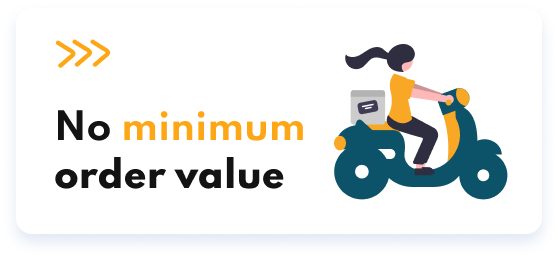
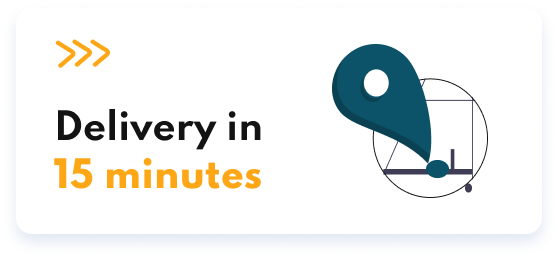
Excluding arm64 architecture from Pods as Google libs don't provide c… (#221)
* Excluding arm64 architecture from Pods as Google libs don't provide compatible packages for M1 Macs

* HY-615 | Changed first slide in carousel

* Changed flipper to devtools for redux store

* HY-615 | Fixed home carousel items

* HY-615 FE Update promo code banner and link to in-app browser page
- set correct link

Changed region(s): [[0.5789, 0.155, 0.914, 0.7752], [0.0914, 0.5891, 0.5179, 0.7442], [0.0914, 0.4031, 0.5484, 0.5891]]

diff --git a/src/components/HomeCarousel/index.tsx b/src/components/HomeCarousel/index.tsx
@@ -1,9 +1,10 @@
 import React, { useState } from 'react';
-import { View, Image } from 'react-native';
+import { View, Image, TouchableOpacity } from 'react-native';
 import Carousel, { Pagination } from 'react-native-snap-carousel';
 
 import { CarouselDotElement } from 'components';
 import useStyles from './styles';
+import { openLink } from 'services/inAppBrowser';
 
 
 interface IHomeCarousel {
@@ -16,6 +17,7 @@ const HomeCarousel: React.FC<IHomeCarousel> = ({ style = {} }) => {
   const carouselItems = [
     {
       img: require('../../../assets/images/slide_1.png'),
+      link: 'https://www.getblitz.io/promos/',
     },
     {
       img: require('../../../assets/images/slide_2.png'),
@@ -28,13 +30,24 @@ const HomeCarousel: React.FC<IHomeCarousel> = ({ style = {} }) => {
   const renderItem = ({ item }) => (
     <View style={styles.carouselItem}>
       <View style={styles.imageBannerWrapper}>
-        <Image
-          source={item.img}
-          style={styles.imageBanner}
-        />
+        {
+                      item.link ? (
+                        <TouchableOpacity onPress={() => openLink(item.link)} activeOpacity={0.7}>
+                          <Image
+                            source={item.img}
+                            style={styles.imageBanner}
+                          />
+                        </TouchableOpacity>
+                      )
+                        : (
+                          <Image
+                            source={item.img}
+                            style={styles.imageBanner}
+                          />
+                        )
+                  }
       </View>
     </View>
-
   );
 
   return (
